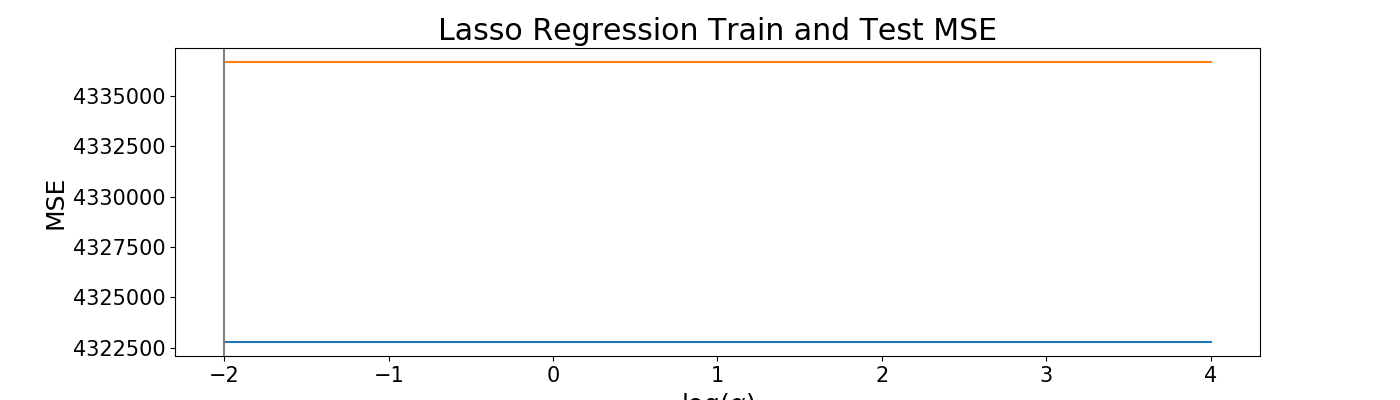
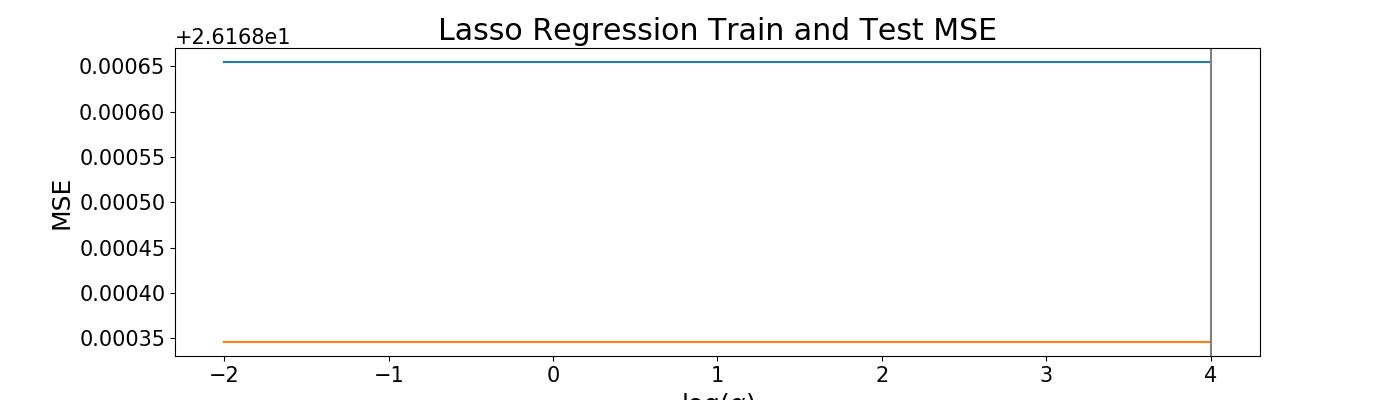
Run model for ability predictor

diff --git a/src/ability_predictor.py b/src/ability_predictor.py
@@ -1,13 +1,14 @@
 import pandas as pd
 import numpy as np
 import seaborn as sns
-from sklearn.linear_model import RidgeCV, LassoCV
+from sklearn.linear_model import Ridge, Lasso, RidgeCV, LassoCV
 from sklearn.model_selection import train_test_split, KFold
 from sklearn.preprocessing import StandardScaler
 from sklearn.base import clone
-from sklearn.metrics import mean_squared_error
 import matplotlib.pyplot as plt
-from model import get_boulder_models, get_route_models, test_model_on_hold
+from sklearn.metrics import mean_squared_error as mse
+import utils
+from src.model import get_boulder_models, get_route_models, test_model_on_hold
 
 boulders = pd.read_csv('/Users/Kelly/galvanize/capstones/mod1/data/boulders.csv')
 routes = pd.read_csv('/Users/Kelly/galvanize/capstones/mod1/data/routes.csv')
@@ -18,27 +19,27 @@ def drop_columns_ability(df):
         df.drop(col,axis=1,inplace=True)
     return df
 
-def split_data_ability(df,col, sample_num):
+def split_data_ability(df,col):
     #sample num = 7200 for boulders, 6504 for routes
     train, test = train_test_split(df, test_size=.25)
     y_train = train[col][train['ascent_date_year'] == 2017].values
-    X_train = train[train['ascent_date_year'] != 2017].sample(sample_num)
+    X_train = train[train['ascent_date_year'] != 2017].sample(len(y_train))
     X_train = X_train.values
     y_hold = test[col][test['ascent_date_year'] == 2017].values
-    X_hold = test[test['ascent_date_year'] != 2017].sample(sample_num)
+    X_hold = test[test['ascent_date_year'] != 2017].sample(len(y_hold))
     X_hold = X_hold.values
     return X_train, y_train, X_hold, y_hold
 
-# routes_y = routes.usa_routes[routes['ascent_date_year'] == 2017]
-# routes_X = routes[routes['ascent_date_year'] != 2017].sample(6504)
-# boulders_y = boulders.usa_boulders[boulders['ascent_date_year'] == 2017]
-# boulders_X = boulders[boulders['ascent_date_year'] != 2017].sample(7200)
-
-X_train, y_train, X_hold, y_hold = split_data_ability(boulders,'usa_boulders',7200)
-
 def main_ability_boulder():
     boulder = drop_columns_ability(boulders)
-    X_train, y_train, X_hold, y_hold = split_data_ability(boulders,'usa_boulders',7200)
+    X_train, y_train, X_hold, y_hold = split_data_ability(boulder,'usa_boulders')
     boulder_ridge, boulder_lasso = get_boulder_models(X_train,y_train)
-    est_model_on_hold(X_train,y_train,X_hold,y_hold,Ridge,boulder_ridge.alpha_,'Final Ridge Prediction for Boulder grades','images/ridge_model_boulder_ability.png')
-    test_model_on_hold(X_train,y_train,X_hold,y_hold,Lasso,boulder_lasso.alpha_,'Final Lasso Prediction for Boulder grades','images/lasso_model_boulder_ability.png')
+    test_model_on_hold(X_train,y_train,X_hold,y_hold,Ridge,boulder_ridge.alpha_,'Final Ridge Prediction for Boulder Ability','images/ridge_model_boulder_ability.png')
+    test_model_on_hold(X_train,y_train,X_hold,y_hold,Lasso,boulder_lasso.alpha_,'Final Lasso Prediction for Boulder Ability','images/lasso_model_boulder_ability.png')
+
+def main_ability_route():
+    route = drop_columns_ability(routes)
+    X_train, y_train, X_hold, y_hold = split_data_ability(route,'usa_routes')
+    route_ridge, route_lasso = get_route_models(X_train,y_train)
+    test_model_on_hold(X_train,y_train,X_hold,y_hold,Ridge,route_ridge.alpha_,'Final Ridge Prediction for Route Ability','images/ridge_model_route_ability.png')
+    test_model_on_hold(X_train,y_train,X_hold,y_hold,Lasso,route_lasso.alpha_,'Final Lasso Prediction for Route Ability','images/lasso_model_route_ability.png')

diff --git a/src/model.py b/src/model.py
@@ -113,8 +113,8 @@ def get_boulder_models(X_train,y_train):
     boulder_lasso, boulder_lasso_score,lasso_y_hats, lasso_y_true, lasso_X_test = run_lasso_model(X_train,y_train)
     # plot_model_predictions(ridge_y_true,ridge_y_hats,'Ridge Prediction for Boulder grades','images/ridge_model_boulder.png')
     # plot_model_predictions(lasso_y_true,lasso_y_hats,'Lasso Prediction for Boulder Grades','images/lasso_model_boulder.png')
-    plot_mse(boulder_ridge, X_train, y_train, ridge_X_test, ridge_y_true,"Ridge Regression Train and Test MSE" , 'images/boulder_ridge_MSE.png')
-    plot_mse(boulder_lasso, X_train, y_train, lasso_X_test, lasso_y_true,"Lasso Regression Train and Test MSE" , 'images/boulder_lasso_MSE.png')
+    # plot_mse(boulder_ridge, X_train, y_train, ridge_X_test, ridge_y_true,"Ridge Regression Train and Test MSE" , 'images/boulder_ridge_MSE.png')
+    # plot_mse(boulder_lasso, X_train, y_train, lasso_X_test, lasso_y_true,"Lasso Regression Train and Test MSE" , 'images/boulder_lasso_MSE.png')
     print('The Ridge R2 score is {}'.format(boulder_ridge_score))
     print('The optimal ridge alpha is {}'.format(boulder_ridge.alpha_))
     print('The Lasso R2 score is {}'.format(boulder_lasso_score))
@@ -124,8 +124,8 @@ def get_boulder_models(X_train,y_train):
 def get_route_models(X_train,y_train):
     route_ridge, route_ridge_score, ridge_y_hats, ridge_y_true, ridge_X_test = run_ridge_model(X_train,y_train)
     route_lasso, route_lasso_score,lasso_y_hats, lasso_y_true, lasso_X_test = run_lasso_model(X_train,y_train)
-    plot_mse(route_ridge, X_train, y_train, ridge_X_test, ridge_y_true,"Ridge Regression Train and Test MSE" , 'images/route_ridge_MSE.png')
-    plot_mse(route_lasso, X_train, y_train, lasso_X_test, lasso_y_true,"Lasso Regression Train and Test MSE" , 'images/route_lasso_MSE.png')
+    # plot_mse(route_ridge, X_train, y_train, ridge_X_test, ridge_y_true,"Ridge Regression Train and Test MSE" , 'images/route_ridge_MSE.png')
+    # plot_mse(route_lasso, X_train, y_train, lasso_X_test, lasso_y_true,"Lasso Regression Train and Test MSE" , 'images/route_lasso_MSE.png')
     # plot_model_predictions(ridge_y_true,ridge_y_hats,'Ridge Prediction for Route grades','images/ridge_model_route.png')
     # plot_model_predictions(lasso_y_true,lasso_y_hats,'Lasso Prediction for Route Grades','images/lasso_model_route.png')
     print('The Ridge R2 score is {}'.format(route_ridge_score))
